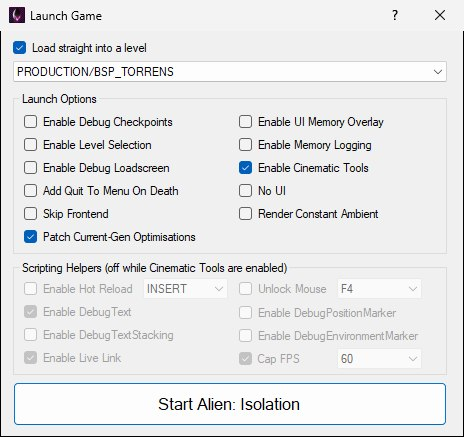
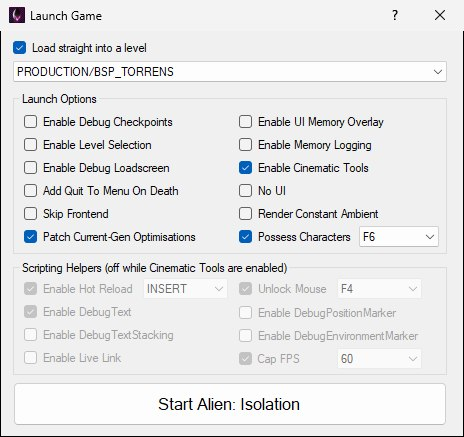
docs, changelog

diff --git a/docs/launch-game/index.html b/docs/launch-game/index.html
@@ -89,6 +89,7 @@
 <li class="nav-item"><a class="nav-link scrollto" href="#engine-patches">Engine Patches</a></li>
 <li class="nav-item"><a class="nav-link scrollto" href="#debug-tools">Debug Tools</a></li>
 <li class="nav-item"><a class="nav-link scrollto" href="#steam-tools">Steam-Only Tools</a></li>
+<li class="nav-item"><a class="nav-link scrollto" href="#possess-characters">Possess Characters</a></li>
 <li class="nav-item section-title"><a class="nav-link scrollto" href="#scripting-helpers"><span class="theme-icon-holder me-2"><i class="fas fa-scroll"></i></span>Scripting Helpers</a></li>
 <li class="nav-item"><a class="nav-link scrollto" href="#cinematic-tools-or-helpers">Cinematic Tools or Scripting Helpers</a></li>
 <li class="nav-item section-title"><a class="nav-link scrollto" href="#related"><span class="theme-icon-holder me-2"><i class="fas fa-scroll"></i></span>Related Options</a></li>
@@ -113,9 +114,9 @@
 	<section class="docs-section" style="padding-top:0;">
 		<p>The <b>Launch Game</b> button at the right-hand end of the main toolbar (beside <b>Manage Backups</b>, shown below) opens the Launch Game dialog. From here you choose whether to boot straight into a level, toggle launch options and scripting helpers, then hit <b>Start Alien: Isolation</b>. The button is only enabled for Steam, Epic Games Store and GOG installs, because launching works by patching the game executable.</p>
 		<p><img src="img/toolbar-launch-game.jpg" alt="OpenCAGE's main toolbar with the Launch Game button at its right-hand end, beside Manage Backups." style="max-width:100%;width:576px"></p>
-		<p>Options patch the game install and (for some UI mods) replace GFX files under <code>DATA/UI.PAK</code>. Some options aren't supported on all platforms — the <a href="#scripting-helpers">Scripting Helpers</a> and <b>Cinematic Tools</b> are Steam-only. The dialog itself is shown below: the level picker sits at the top; a single <b>Launch Options</b> group holds the four UI mods at the top of its left-hand column, with the engine patches, debug tools and Cinematic Tools filling the rest of both columns; the <b>Scripting Helpers</b> group sits underneath; and <b>Start Alien: Isolation</b> is the button along the bottom. Options that don't apply to your install are greyed out; on the Steam install pictured, with the bundled tools present, everything is available.</p>
-		<p><img src="img/launch-game.jpg" alt="The Launch Game dialog: level picker at the top with PRODUCTION/BSP_TORRENS chosen, the Launch Options group of checkboxes with Enable Cinematic Tools among them, the Scripting Helpers group with Enable Hot Reload ticked and its key set to INSERT beside Unlock Mouse ticked with its key set to F4, Cap FPS ticked at 60 at the bottom of the right-hand column, and the Start Alien: Isolation button." style="max-width:100%;width:464px"></p>
-		<p class="text-muted small"><i>The Launch Game dialog on a Steam install with a level chosen; Enable Hot Reload, Unlock Mouse and Cap FPS are ticked, so their dropdowns are live.</i></p>
+		<p>Options patch the game install and (for some UI mods) replace GFX files under <code>DATA/UI.PAK</code>. Some options aren't supported on all platforms — the <a href="#scripting-helpers">Scripting Helpers</a> and <b>Cinematic Tools</b> are Steam-only. The dialog itself is shown below: the level picker sits at the top; a single <b>Launch Options</b> group holds the four UI mods at the top of its left-hand column, with the engine patches, debug tools, Cinematic Tools and <a href="#possess-characters">Possess Characters</a> filling the rest of both columns; the <b>Scripting Helpers</b> group sits underneath; and <b>Start Alien: Isolation</b> is the button along the bottom. Options that don't apply to your install are greyed out; on the Steam install pictured, with the bundled tools present, everything is available.</p>
+		<p><img src="img/launch-game.jpg" alt="The Launch Game dialog: level picker at the top with PRODUCTION/BSP_TORRENS chosen, the Launch Options group of checkboxes with Enable Cinematic Tools among them and Possess Characters ticked with its key set to F6 at the bottom of the right-hand column, the Scripting Helpers group with Enable Hot Reload ticked and its key set to INSERT beside Unlock Mouse ticked with its key set to F4, Cap FPS ticked at 60 at the bottom of the right-hand column, and the Start Alien: Isolation button." style="max-width:100%;width:464px"></p>
+		<p class="text-muted small"><i>The Launch Game dialog on a Steam install with a level chosen; Possess Characters, Enable Hot Reload, Unlock Mouse and Cap FPS are ticked, so their dropdowns are live.</i></p>
 		<p>The game loads levels from disk, so if the level you have open has unsaved changes when you press <b>Start Alien: Isolation</b>, OpenCAGE asks whether to save it first. <b>Yes</b> saves the level (as <b>File → Save Level</b> does) and starts the game, <b>No</b> starts it without saving, and <b>Cancel</b> does neither. If the save doesn't go through, the game isn't started either. If you've added models or other content that needs building, cancel and use <b>File → Save and Build Level</b> first (see <a href="/docs/save-and-build/">Save and Build</a>).</p>
 		<p><img src="img/unsaved-changes.jpg" alt="The Unsaved changes message: the level has unsaved changes, the game loads what is saved on disk so it will not have them, Save the level before launching? with Yes, No and Cancel buttons." style="max-width:100%;width:395px"></p>
 		<p>While the game is running with <a href="#scripting-helpers">Enable Live Link</a> ticked (Steam only), a <a href="/docs/live-link/#live-link-button">Live Link</a> button joins <b>Launch Game</b> on the toolbar, to its right. A game started without it, or with <a href="#cinematic-tools-or-helpers">Cinematic Tools</a>, gets no button.</p>
@@ -160,7 +161,7 @@
 
 	<section class="docs-section" id="engine-patches" style="padding-top:0;">
 		<h2 class="section-heading">Engine Patches</h2>
-		<p>The rest of <b>Launch Options</b> — Skip Frontend and Patch Current-Gen Optimisations under the UI mods, plus the debug tools, No UI and Render Constant Ambient in the right-hand column — are written into the game executable the moment you toggle them. OpenCAGE warns if it can't write, which usually means the game is still running. Cinematic Tools is the exception: it's only applied when you launch.</p>
+		<p>The rest of <b>Launch Options</b> — Skip Frontend and Patch Current-Gen Optimisations under the UI mods, plus the debug tools, No UI and Render Constant Ambient in the right-hand column — are written into the game executable the moment you toggle them. OpenCAGE warns if it can't write, which usually means the game is still running. Cinematic Tools and Possess Characters are the exceptions: they're only applied when you launch.</p>
 		<ul>
 			<li><b>Skip Frontend</b> — skips the title screen when loading directly into a level</li>
 			<li><b>Patch Current-Gen Optimisations</b> — restores script functionality that was left out of the PC build (the game incorrectly still honours a “current gen” script flag). In vanilla this re-enables things like additional lighting, monitors, and effects.</li>
@@ -181,8 +182,27 @@
 		<h2 class="section-heading">Steam-Only Tools</h2>
 		<ul>
 			<li><b>Enable Cinematic Tools</b> — enables HattiWatti's Cinematic Tools. The box is greyed out when they aren't available — on non-Steam installs, or if the bundled files are missing. Antivirus software may block the injector; if so, add an exclusion for OpenCAGE's cinematic tools. The game can still launch without them. Cinematic Tools and the <a href="#scripting-helpers">Scripting Helpers</a> are one or the other: while this box is ticked, the helpers are switched off (see <a href="#cinematic-tools-or-helpers">Cinematic Tools or Scripting Helpers</a>).</li>
+			<li><b>Possess Characters</b> — take control of one of the level's characters in-game, the alien included: the chosen key opens a menu of the characters around you. See <a href="#possess-characters">Possess Characters</a> below.</li>
 		</ul>
 		<p>Hot reloading has moved into the <a href="#scripting-helpers">Scripting Helpers</a> group, where you can also choose its key.</p>
+	</section>
+
+	<section class="docs-section" id="possess-characters">
+		<h2 class="section-heading">Possess Characters</h2>
+		<p>With <b>Possess Characters</b> ticked (Steam only), you can take control of a character in the running game — the alien, an android or a human — and walk it around the level yourself. Pick the key that opens its menu from the dropdown beside the box: <b>F6</b> by default, with the same choices as the <a href="#scripting-helpers">hot reload key</a>. Like the scripting helpers, it runs in OpenCAGE's plugin in the game folder, but it isn't one of them: it stays available with <a href="#steam-tools">Cinematic Tools</a> ticked.</p>
+		<p>In the game, press the key to open the <b>Possess a Character</b> menu. It lists the characters the game is running, with what each one is and how far away it is. The one you're facing comes first (marked <i>ahead</i>), then the rest from nearest to furthest. Click one, or pick it with the arrow keys and <b>Enter</b>, to take control of it. While the menu is open the mouse cursor is shown and the game doesn't see your keyboard or mouse. Press the key again or <b>Escape</b> to close it.</p>
+		<p><img src="img/possess-menu.jpg" alt="The Possess a Character menu over the game in a Survivor map, listing the alien greyed out (Alen, in the vents, Alien, 48 m) with the keys underneath: W/A/S/D move, Shift faster, Ctrl slower, C crouch, the mouse looks, the wheel zooms; F6 or Escape closes this." style="max-width:100%;width:720px"></p>
+		<p class="text-muted small"><i>The menu in a Survivor map, with the alien still moving through the vents: it's listed, but greyed out until it comes out.</i></p>
+		<p>Once you have a character, the camera sits behind it. <b>W</b>, <b>A</b>, <b>S</b> and <b>D</b> move it relative to the camera, <b>Shift</b> makes it go faster and <b>Ctrl</b> slower, and the mouse turns the camera around it. Roll the mouse wheel to bring the camera closer or take it further away: it goes from 1.5 m to 10 m behind the character (4 m to begin with), and stays where you leave it for the next character you take. It moves with its own animations and speeds, along the routes the level's navigation mesh allows it, so the alien moves as the alien does and can't walk through walls. Let go of the keys and it comes to a stop. <b>C</b> gives it the game's own order to crouch, or to stand up again, but the character only looks any different if its animations include crouching: the humans tried so far (the Torrens crew, and the spacesuited crew on LV-426) stay upright, and the alien doesn't take the order. Your own character stands still meanwhile: the game doesn't see your keyboard (apart from <b>Escape</b>, for the pause menu) or mouse. To let go, open the menu and choose <b>Let go</b>, or take another character; the character's own behaviour then takes over again.</p>
+		<p><img src="img/possess-alien.jpg" alt="The camera behind the possessed alien in a Survivor map corridor, with the player crouched against the wall ahead, and the note Possessing Alen - W/A/S/D move, Shift faster, Ctrl slower, C crouch, F6 for the menu at the bottom of the screen." style="max-width:100%;width:720px"></p>
+		<p class="text-muted small"><i>The alien possessed: the camera follows behind it, and a note at the bottom of the screen gives the keys.</i></p>
+		<ul>
+			<li>A character in the vents (the alien moving backstage) can't be taken: it's shown as <i>in the vents</i> and greyed out until it comes out.</li>
+			<li>While you have a character, its own decisions are paused (its senses still work), so the alien won't come after you, but other characters still react to what's around them.</li>
+			<li>Every zone of the level is streamed in while you're behind the character, as the game normally only streams in the area around you.</li>
+			<li>The camera doesn't avoid walls, so it can end up inside one when the character backs into a corner.</li>
+			<li>Going to another level lets go of the character.</li>
+		</ul>
 	</section>
 </article>
 
@@ -192,7 +212,7 @@
     </header>
 
 	<section class="docs-section" style="padding-top:0;">
-		<p>The <b>Scripting Helpers</b> group adds runtime tools to the game that make script iteration faster. They're provided by a small plugin OpenCAGE copies into the game folder when any helper is enabled, or Cinematic Tools are (and removes when none are), configured through <code>OpenCAGE.RuntimeUtils.ini</code> beside it. The plugin only supports the Steam build, so the whole group is greyed out on other platforms. The dropdowns beside <b>Enable Hot Reload</b>, <b>Unlock Mouse</b> and <b>Cap FPS</b> only come alive once their box is ticked, as shown below.</p>
+		<p>The <b>Scripting Helpers</b> group adds runtime tools to the game that make script iteration faster. They're provided by a small plugin OpenCAGE copies into the game folder when any helper is enabled, or Cinematic Tools or <a href="#possess-characters">Possess Characters</a> are (and removes when none are), configured through <code>OpenCAGE.RuntimeUtils.ini</code> beside it. The plugin only supports the Steam build, so the whole group is greyed out on other platforms. The dropdowns beside <b>Enable Hot Reload</b>, <b>Unlock Mouse</b> and <b>Cap FPS</b> only come alive once their box is ticked, as shown below.</p>
 		<p><img src="img/scripting-helpers-key.jpg" alt="The Launch Game dialog with the Enable Hot Reload key dropdown open, listing INSERT, DELETE, HOME, END, PAGEUP, PAGEDOWN and F1 to F12." style="max-width:100%;width:464px"></p>
 		<p class="text-muted small"><i>The hot reload key dropdown, open: INSERT is the default, with DELETE, HOME, END, PAGEUP, PAGEDOWN and the function keys as alternatives.</i></p>
 		<ul>
@@ -214,8 +234,8 @@
 		<h2 class="section-heading">Cinematic Tools or Scripting Helpers</h2>
 		<p>A game started from Launch Game runs either <a href="#steam-tools">Cinematic Tools</a> or the scripting helpers, never both. They're for different jobs, filming and working on a level's scripts, and both take over the game's camera: Cinematic Tools with their free camera, and Live Link with its <a href="/docs/live-link/#camera">camera sync</a>.</p>
 		<p>While <b>Enable Cinematic Tools</b> is ticked, the <b>Scripting Helpers</b> group is greyed out and its title says why. None of the helpers run in the game, Live Link included, so OpenCAGE shows no <a href="/docs/live-link/#live-link-button">Live Link</a> button for that game. The boxes you've ticked in the group stay ticked, and work again as soon as you untick Enable Cinematic Tools. Cinematic Tools still get OpenCAGE's plugin in the game folder, which streams in the level around their free camera.</p>
-		<p><img src="img/launch-game-cinematic-tools.jpg" alt="The Launch Game dialog with Enable Cinematic Tools ticked and the Scripting Helpers group greyed out under the title Scripting Helpers (off while Cinematic Tools are enabled), with Enable DebugText, Enable Live Link and Cap FPS still ticked but greyed." style="max-width:100%;width:464px"></p>
-		<p class="text-muted small"><i>Enable Cinematic Tools ticked: the Scripting Helpers are greyed out, keeping their ticks for the next game started without Cinematic Tools.</i></p>
+		<p><img src="img/launch-game-cinematic-tools.jpg" alt="The Launch Game dialog with Enable Cinematic Tools ticked and the Scripting Helpers group greyed out under the title Scripting Helpers (off while Cinematic Tools are enabled), with Enable Hot Reload, Enable DebugText, Unlock Mouse and Cap FPS still ticked but greyed, while Possess Characters in the Launch Options group stays ticked and available." style="max-width:100%;width:464px"></p>
+		<p class="text-muted small"><i>Enable Cinematic Tools ticked: the Scripting Helpers are greyed out, keeping their ticks for the next game started without Cinematic Tools. Possess Characters isn't a scripting helper, so it stays available.</i></p>
 		<p><a href="#related">Open Game On Save</a> never starts Cinematic Tools, so a game it starts runs the helpers as they're ticked, whether or not Enable Cinematic Tools is.</p>
 	</section>
 </article>

diff --git a/docs/making-mods/index.html b/docs/making-mods/index.html
@@ -130,15 +130,18 @@
 
 	<section class="docs-section" id="choosing">
 		<h2 class="section-heading">Choosing What Goes In</h2>
-		<p>The left of the window lists everything that's different from the original game, in plain words:</p>
+		<p>The left of the window lists everything that's different from the original game, in plain words. OpenCAGE remembers when you changed each composite, model, texture and material, and saves that with the level, so what you've worked on is listed by name with when you last changed it, newest first:</p>
 		<ul>
-			<li><b>Levels</b> - each level you've changed, as a single item, with what you changed in it (its scripts, rebuilt lighting and navigation, its text). A level's files only work together, so they always go in together. Hover over a level to see its files.</li>
+			<li><b>Scripts you've changed</b> - each composite you've edited, with the level it's in. A composite you've changed in several levels is one item, which ticks it in all of them (expand it to choose levels). Only the changes you made to it go in, not OpenCAGE's own tidying, such as the defaults it fills in when you select an entity.</li>
+			<li><b>Models, textures and materials you've changed</b> - each one by name. Models, textures and materials a ticked composite has added come with it automatically, so they aren't listed. A material mapping, collision or physics change can only go in with the rest of its level, and says so.</li>
+			<li><b>Levels</b> - each level you've changed. A level you made with Create Level always goes in whole. For any other level, <i>Everything else you've changed in it</i> is the whole level as it is now: tick it to include every change in the level, listed or not. A level changed before OpenCAGE kept this history can only go in whole. A level's text files are listed separately. Hover over a level to see its files.</li>
 			<li><b>Settings</b> - grouped by what they're for, such as <i>The alien (DEFAULT.BML)</i>. Each change shows the value it had and the value you gave it, for example <i>AreaSweep › menace cool down time: 30 → 45</i>, so you can untick any you only changed while testing.</li>
 			<li><b>Behaviour trees</b> - each tree you changed or added, as a single item.</li>
-			<li><b>Other files</b> - everything else, such as in-game text or the user interface. Changed animation trees (<code>ANIMATION.PAK</code>) take the layouts you gave them in the <a href="/docs/animation-tree-editor/">Animation Tree Editor</a> with them.</li>
+			<li><b>Other files</b> - everything else, such as in-game text or the user interface, with when you last changed it in OpenCAGE. Changed animation trees (<code>ANIMATION.PAK</code>) take the layouts you gave them in the <a href="/docs/animation-tree-editor/">Animation Tree Editor</a> with them.</li>
 		</ul>
-		<p>Everything starts ticked. Untick anything that shouldn't be in this mod. If you have mods installed, what they changed isn't listed - only your own work goes into your mod.</p>
-		<p>The line at the bottom of the window counts what's ticked, for example <i>In your mod: 1 level, 2 settings, 2 behaviour trees, 1 other file.</i></p>
+		<p>What you've changed starts ticked, apart from the rest of each level. Untick anything that shouldn't be in this mod. If you have mods installed, what they changed isn't listed - only your own work goes into your mod.</p>
+		<p>If a composite you've ticked needs another change you made - a pin you added to a composite it uses, or something an alias in it points at that you added - that change goes in too, and you're told when the mod is saved. When only part of a level goes in, OpenCAGE builds that part onto a copy of the original level before saving the mod, so saving takes longer, and longer again if you rebuilt the level's lighting and navigation, because the copy is rebuilt as well.</p>
+		<p>The line at the bottom of the window counts what's ticked, for example <i>In your mod: 3 composites, 1 other level change, 2 settings, 1 behaviour tree.</i></p>
     </section>
 
 	<section class="docs-section" id="details">

diff --git a/docs/installing-mods/index.html b/docs/installing-mods/index.html
@@ -264,6 +264,7 @@
 		<p><b>OpenCAGE closed (or my PC turned off) while mods were going in.</b><br>The next time you open the Mod Manager, it puts your game files back the way they were before that started. Then just click <b>Apply</b> again.</p>
 		<p><b>Do I need to restart OpenCAGE after applying mods?</b><br>No. Anything OpenCAGE has open that your mods changed - the level you're working on, the animations, the game's text - is loaded again once the mods are in, and you're taken back to where you were in the level. If you have changes you haven't saved in any of those, the Mod Manager asks first whether to save them. Windows showing files the mods change are closed; if one of them only saves when you click its Save button, you're asked to close it yourself first, so nothing in it is lost.</p>
 		<p><b>It says a mod was made for a different version of the game.</b><br>Mods are made for one version of the game. Mods for the PC version work with Steam, Epic Games Store and GOG copies alike, but they can't be installed on other versions (such as the Nintendo Switch version), and those versions' mods can't be installed on PC.</p>
+		<p><b>It says mods can't be used with this version of the game.</b><br>To put mods in and take them out again, the Mod Manager needs a record of what the game's own files should look like. OpenCAGE has that for the Steam, Epic Games Store, GOG, Microsoft Store and Nintendo Switch versions, but not yet for the mobile or Mac/Linux versions, so the Mod Manager can't be used with those.</p>
 		<p><b>Does removing a mod really undo everything it changed?</b><br>Yes. Every file is put back exactly as it was, byte for byte.</p>
 		<p><b>Where does the Mod Manager keep my mods?</b><br>Inside your game folder, in <code>DATA/MODTOOLS/MODS</code>, along with the copies of original files it keeps. Don't change anything in there by hand.</p>
 		<p><b>Why does applying take longer for some mods?</b><br>A level that more than one of your mods changes (or that you've changed yourself as well) is put back together from all of them, which takes a minute or so per level - longer when one of those mods rebuilt the level's lighting and navigation, as the combined level then has to be rebuilt too. Everything else goes in within seconds. A level is only put back together when something about it has changed: turning other mods on or off leaves it alone.</p>

diff --git a/docs/changelog/index.html b/docs/changelog/index.html
@@ -376,6 +376,7 @@
 			<li>Added an option to stick the controls window on the top layer of the screen</li>
 			<li>Added FPS cap option in launch game window</li>
 			<li>Added ability to flag vector parameters as colours on composites</li>
+			<li>Added ability to possess characters via launch game (press F6 - rebindable - to select a character to control)</li>
 			<li>Added new 'Focus on Selected' and 'Fix Camera on Selected' options for the viewport</li>
 			<li>Added an option to save when closing with a level open</li>
 			<li>Added some potential improvements for hit testing in the flowgraph view</li>
